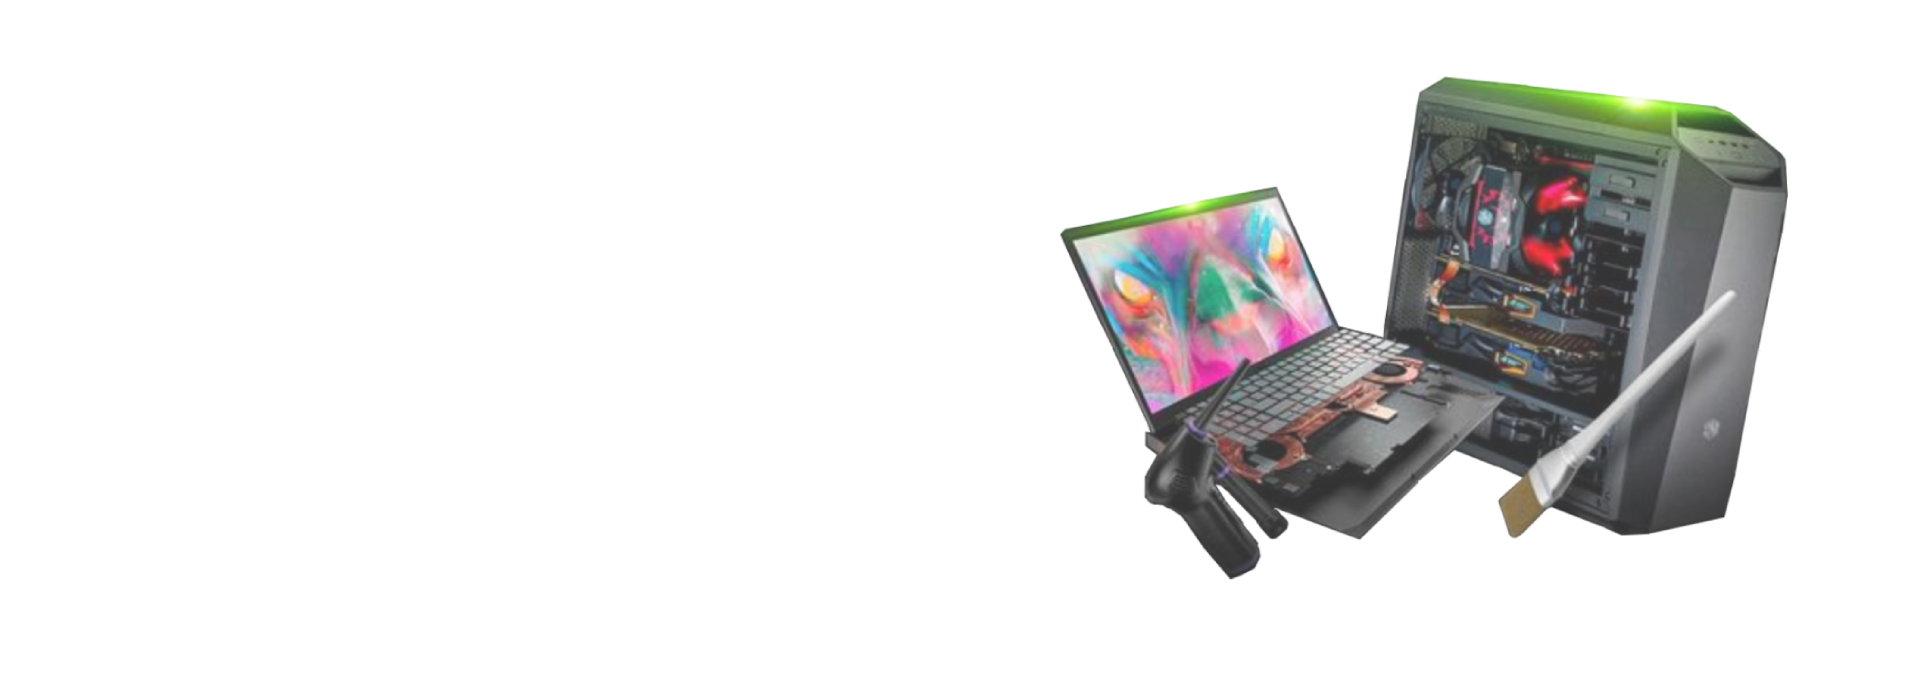
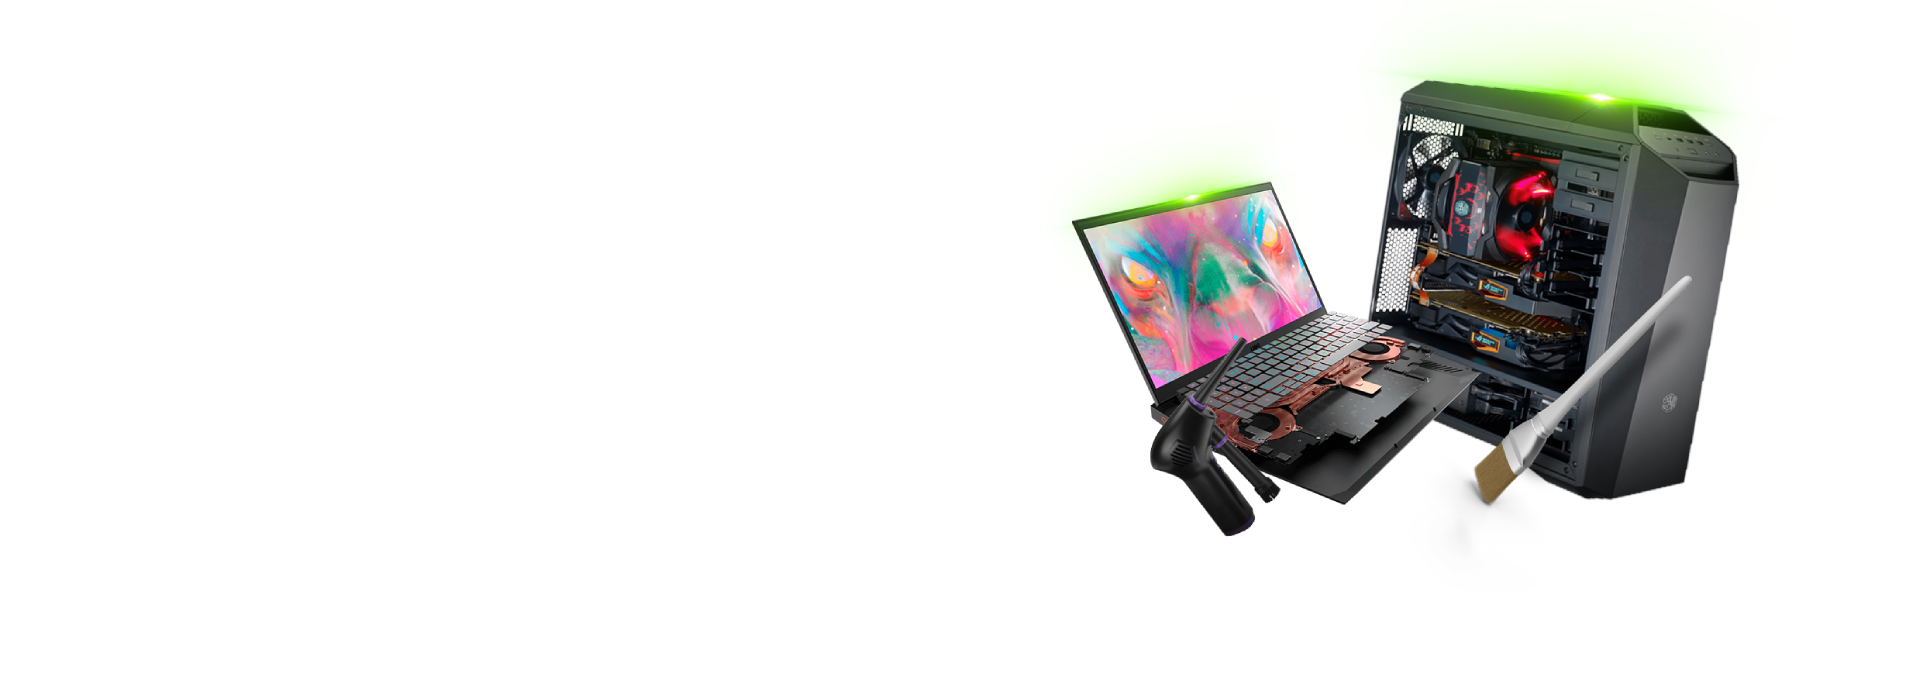
refactor: Hero

Changed region(s): [[0.5312, 0.0618, 0.9375, 0.8647]]

diff --git a/src/components/Main/styles.ts b/src/components/Main/styles.ts
@@ -3,16 +3,22 @@ import styled from "styled-components";
 const StyledHero = styled.section`
     padding-top: 6.25rem;
     & > div {
-        background: #333333ff url(/hero.png) no-repeat 100% 0;
+        background: var(--Color-background) url(/hero.png) no-repeat 100% 0;
         background-size: cover;
+
+        & > div {
+            width: 100%;
+            background-color: var(--Color-background-hero);
+        }
 
         @media (min-width: 420px) {
             background-position-x: 70%;
         }
 
-        @media (min-width: 650px) {
-            background-position-x: 70%;
-            background-color: var(--Color-background);
+        @media (min-width: 680px) {
+            & > div {
+                background-color: unset;
+            }
         }
     }
 `;
@@ -32,7 +38,7 @@ const StyledContainer = styled.div`
 `;
 
 const StyledText = styled.div`
-    color: #fff;
+    color: var(--Color-text-primary);
     & > h1 {
         font-size: 1.4rem;
         font-weight: 800;
@@ -53,9 +59,6 @@ const StyledText = styled.div`
         & > p {
             font-size: 1.5rem;
         }
-    }
-    @media (min-width: 650px) {
-        color: var(--Color-text-primary);
     }
     @media (min-width: 768px) {
         & > h1 {

diff --git a/src/components/Main/index.tsx b/src/components/Main/index.tsx
@@ -7,13 +7,15 @@ const Main = () => {
         <main>
             <StyledHero>
                 <div>
-                    <StyledContainer>
-                        <StyledText>
-                            <h1>Assistência e soluções em tecnologia</h1>
-                            <p>Nosso time irá cuidar de tudo para você.</p>
-                            <ButtonAction location="HERO" />
-                        </StyledText>
-                    </StyledContainer>
+                    <div>
+                        <StyledContainer>
+                            <StyledText>
+                                <h1>Assistência e soluções em tecnologia</h1>
+                                <p>Nosso time irá cuidar de tudo para você.</p>
+                                <ButtonAction location="HERO" />
+                            </StyledText>
+                        </StyledContainer>
+                    </div>
                 </div>
             </StyledHero>
         </main>

diff --git a/src/styles/theme.ts b/src/styles/theme.ts
@@ -2,6 +2,7 @@ import { DefaultTheme } from "styled-components";
 
 const lightTheme: DefaultTheme = {
     background: "#fff",
+    background_hero: "#ffffffbf",
     text_primary: "#333333ff",
     button_menu: "#333333ff",
     button_menu_hover: "#99df0cff",
@@ -9,6 +10,7 @@ const lightTheme: DefaultTheme = {
 
 const darkTheme: DefaultTheme = {
     background: "#333333ff",
+    background_hero: "#333333bf",
     text_primary: "#fff",
     button_menu: "#99df0cff",
     button_menu_hover: "#fff",

diff --git a/src/styles/global.ts b/src/styles/global.ts
@@ -3,6 +3,7 @@ import { createGlobalStyle } from "styled-components";
 const GlobalStyle = createGlobalStyle`
     :root{
             --Color-background: ${({ theme }) => theme.background};
+            --Color-background-hero: ${({ theme }) => theme.background_hero};
             --Color-text-primary: ${({ theme }) => theme.text_primary};
             --Color-text-secondary: #99df0cff;
             --Color-button-menu: ${({ theme }) => theme.button_menu};

diff --git a/styled.d.ts b/styled.d.ts
@@ -3,6 +3,7 @@ import "styled-components";
 declare module "styled-components" {
     export interface DefaultTheme {
         background: string;
+        background_hero: string;
         text_primary: string;
         button_menu: string;
         button_menu_hover: string;
